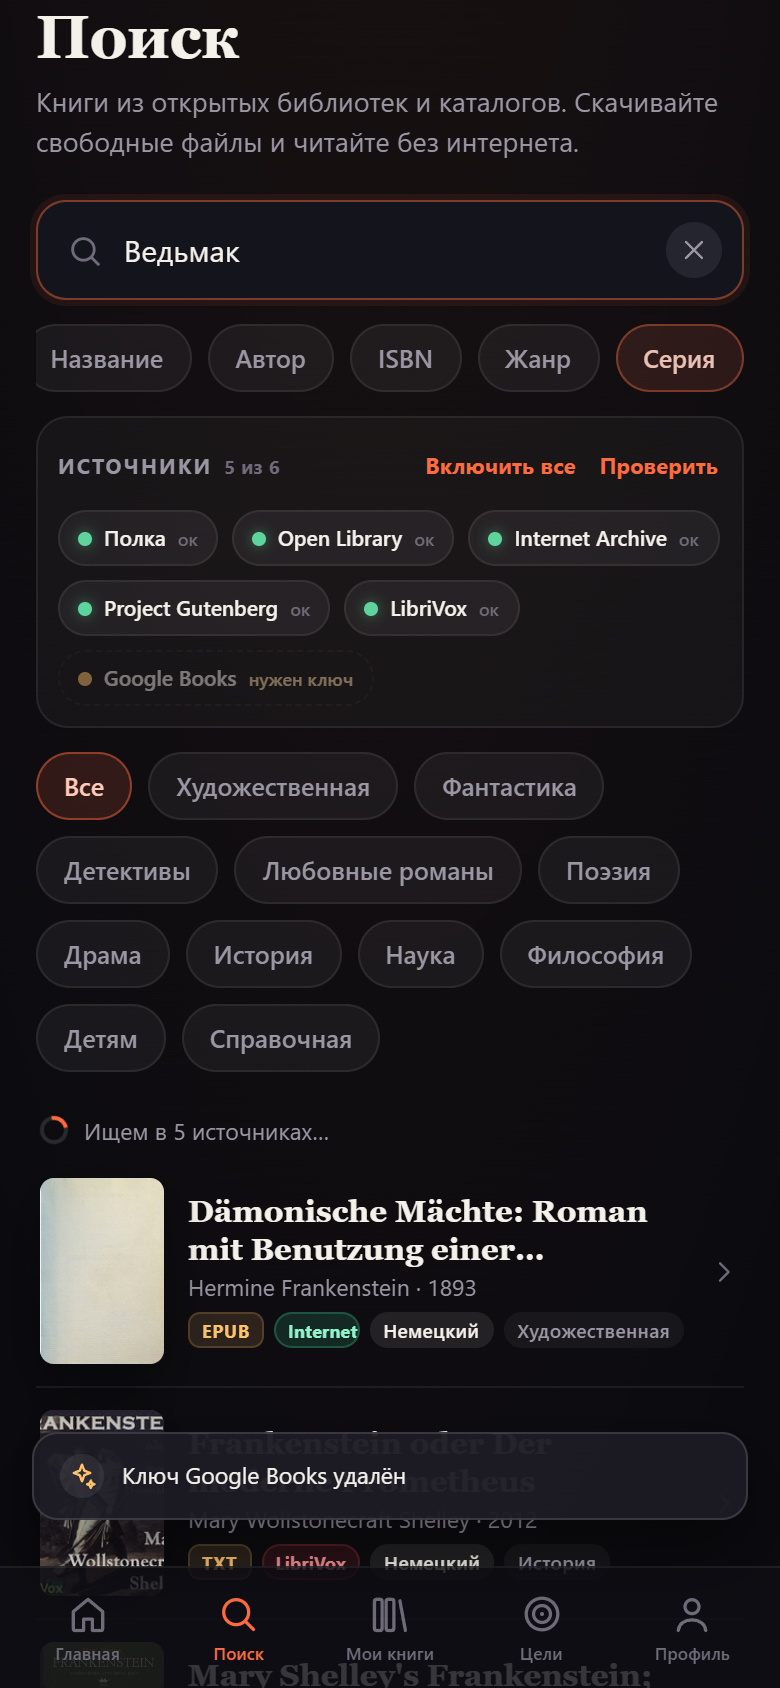
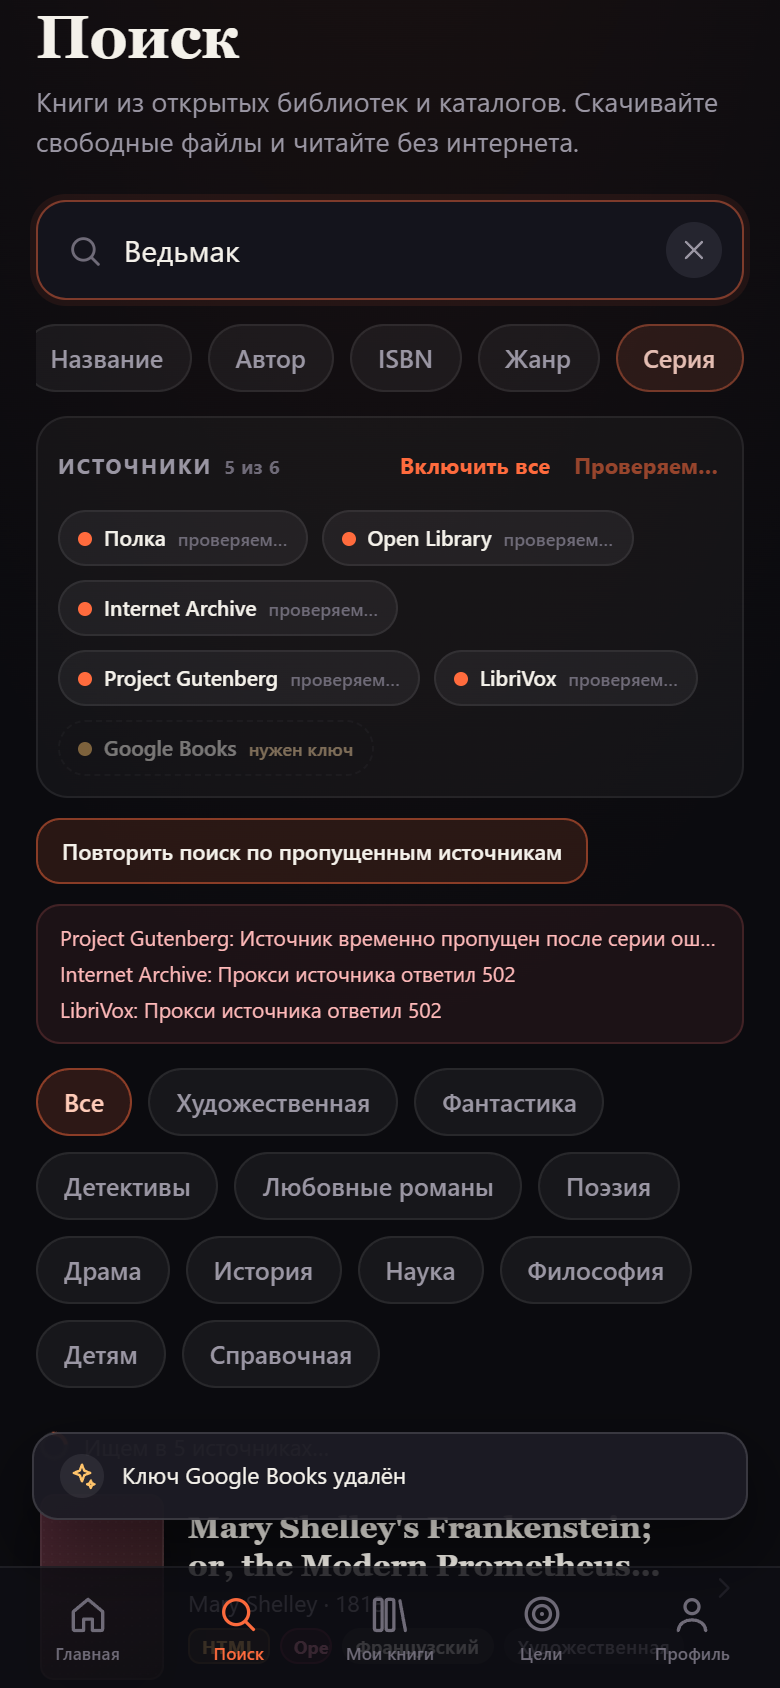
Фикс ложного предохранителя источников и фолбэк через прокси (1.2.1)
- Отмена запроса (смена поисковой строки) больше не считается ошибкой источника
- Предохранитель: порог 2 ошибки, кулдаун 45с, авто-повтор через 15с и кнопка «Повторить»
- JSON-запросы к archive.org/openlibrary при CORS-сбое идут через серверный прокси
- Понятные сообщения: «Источник не ответил вовремя — остальные источники уже показали книги»
- Таймаут Internet Archive 12с без лишних повторов
- Тесты: check-catalog 52 (включая 5 на предохранитель), e2e/search-abort (быстрая смена запросов)
- APK 1.2.1 (versionCode 4)

diff --git a/src/catalog/http.ts b/src/catalog/http.ts
@@ -4,6 +4,7 @@
  * без сторонних прокси и без обхода ограничений.
  */
 import type { SourceError } from './types';
+import { isProxyAvailable } from './proxy';
 
 export class ApiError extends Error {
   status?: number;
@@ -24,6 +25,14 @@ export interface FetchOptions {
   headers?: Record<string, string>;
   /** Ответ уже в виде ArrayBuffer (файлы). */
   binary?: boolean;
+}
+
+/** Отмена запроса пользователем/новым поиском — это не сбой источника. */
+export function isAbortError(error: unknown): boolean {
+  return (
+    (typeof DOMException !== 'undefined' && error instanceof DOMException && error.name === 'AbortError') ||
+    (error instanceof Error && error.name === 'AbortError')
+  );
 }
 
 const DEFAULT_TIMEOUT = 12_000;
@@ -85,6 +94,10 @@ export async function fetchWithRetry(url: string, options: FetchOptions = {}): P
       if (!response.ok) throw describeError(null, response.status);
       return response;
     } catch (error) {
+      // Внешняя отмена (новый запрос, уход с экрана) — не ошибка источника.
+      if (options.signal?.aborted || isAbortError(error)) {
+        throw error instanceof Error ? error : new DOMException('aborted', 'AbortError');
+      }
       lastError = describeError(error, (error as ApiError)?.status);
       if (!lastError.retryable || attempt === retries) throw lastError;
       await new Promise((resolve) => setTimeout(resolve, 350 * (attempt + 1)));
@@ -95,13 +108,63 @@ export async function fetchWithRetry(url: string, options: FetchOptions = {}): P
   throw lastError ?? new ApiError('Не удалось выполнить запрос');
 }
 
-export async function fetchJson<T>(url: string, options: FetchOptions = {}): Promise<T> {
-  const response = await fetchWithRetry(url, options);
-  const text = await response.text();
+
+/** Домены, для которых возможен фолбэк через наш серверный прокси. */
+const PROXY_HOSTS = ['archive.org', 'openlibrary.org', 'covers.openlibrary.org', 'gutenberg.org', 'librivox.org'];
+
+function canUseProxy(url: string): boolean {
   try {
-    return JSON.parse(text) as T;
+    const host = new URL(url).hostname.toLowerCase();
+    return PROXY_HOSTS.some((allowed) => host === allowed || host.endsWith('.' + allowed));
   } catch {
-    throw new ApiError('Источник вернул некорректный JSON', response.status, false);
+    return false;
+  }
+}
+
+/**
+ * Internet Archive периодически отвечает без CORS-заголовков (и тогда браузер
+ * блокирует запрос), хотя сам API доступен. Пробуем ещё раз через наш
+ * серверный прокси: на ПК его даёт server/serve.mjs, в APK — LocalServer.
+ */
+async function fetchJsonViaProxy<T>(url: string, options: FetchOptions): Promise<T> {
+  const proxied = `/api/fetch?url=${encodeURIComponent(url)}`;
+  const controller = new AbortController();
+  const timer = setTimeout(
+    () => controller.abort(new DOMException('timeout', 'TimeoutError')),
+    options.timeoutMs ?? DEFAULT_TIMEOUT,
+  );
+  const onAbort = () => controller.abort();
+  options.signal?.addEventListener('abort', onAbort, { once: true });
+  try {
+    const response = await fetch(proxied, { signal: controller.signal, headers: { Accept: 'application/json' } });
+    if (!response.ok) throw new ApiError(`Прокси источника ответил ${response.status}`, response.status, true);
+    return (await response.json()) as T;
+  } finally {
+    clearTimeout(timer);
+    options.signal?.removeEventListener('abort', onAbort);
+  }
+}
+export async function fetchJson<T>(url: string, options: FetchOptions = {}): Promise<T> {
+  const parse = async (response: Response): Promise<T> => {
+    const text = await response.text();
+    try {
+      return JSON.parse(text) as T;
+    } catch {
+      throw new ApiError('Источник вернул некорректный JSON', response.status, false);
+    }
+  };
+
+  try {
+    return await parse(await fetchWithRetry(url, options));
+  } catch (error) {
+    if (isAbortError(error)) throw error;
+    // Сетевой сбой или CORS — пробуем через серверный прокси, если он доступен.
+    const status = error instanceof ApiError ? error.status : undefined;
+    const networkFailure = !status || status >= 500;
+    if (networkFailure && canUseProxy(url) && (await isProxyAvailable())) {
+      return fetchJsonViaProxy<T>(url, options);
+    }
+    throw error;
   }
 }
 

diff --git a/src/catalog/aggregate.ts b/src/catalog/aggregate.ts
@@ -2,7 +2,7 @@
  * Объединение результатов из нескольких источников:
  * параллельный поиск, нормализация, удаление дублей, ранжирование.
  */
-import { toSourceError } from './http';
+import { isAbortError, toSourceError } from './http';
 import { isCircuitOpen, withSourceGuard } from './limits';
 import { withBestCover } from './covers';
 import { isLikelyDuplicate, normalizeIsbn, normalizeTitle } from './normalize';
@@ -211,10 +211,13 @@ export async function searchAll(query: SearchQuery, options: AggregateOptions = 
       });
       if (guarded === null) {
         // Предохранитель открыт: источник не опрашиваем, остальные работают.
+        const starting = perSource[source.id] === undefined && Object.keys(perSource).length === 0;
         errors.push({
           sourceId: source.id,
           sourceName: source.name,
-          message: 'Источник временно пропущен после серии ошибок — повторим позже',
+          message: starting
+            ? 'Источник пока не отвечает — поиск продолжится по остальным'
+            : 'Источник временно отключён после серии ошибок — нажмите «Повторить»',
           retryable: true,
         });
         perSource[source.id] = 0;
@@ -223,7 +226,15 @@ export async function searchAll(query: SearchQuery, options: AggregateOptions = 
       perSource[source.id] = guarded.length;
       return guarded;
     } catch (error) {
-      errors.push(toSourceError(source.id, source.name, error));
+      // Отмена — это не ошибка: не показываем её пользователю.
+      if (!isAbortError(error)) {
+        const failure = toSourceError(source.id, source.name, error);
+        if (/не ответил|timeout|Timeout/i.test(failure.message)) {
+          failure.message = 'Источник не ответил вовремя — остальные источники уже показали книги';
+          failure.retryable = true;
+        }
+        errors.push(failure);
+      }
       perSource[source.id] = 0;
       return [];
     }
@@ -294,7 +305,7 @@ export async function subjectBooks(
         perSource[source.id] = books.length;
         return books;
       } catch (error) {
-        errors.push(toSourceError(source.id, source.name, error));
+        if (!isAbortError(error)) errors.push(toSourceError(source.id, source.name, error));
         perSource[source.id] = 0;
         return [];
       }
@@ -358,7 +369,7 @@ async function collectFromSources(
         perSource[source.id] = books.length;
         return books;
       } catch (error) {
-        errors.push(toSourceError(source.id, source.name, error));
+        if (!isAbortError(error)) errors.push(toSourceError(source.id, source.name, error));
         perSource[source.id] = 0;
         return [];
       }

diff --git a/src/screens/Search.tsx b/src/screens/Search.tsx
@@ -1,4 +1,4 @@
-import { useEffect, useMemo, useState } from 'react';
+import { useEffect, useMemo, useRef, useState } from 'react';
 import type { BookSource, SearchQuery, SourceError, SourceHealth } from '../catalog/types';
 import {
   useCatalogSearch,
@@ -11,6 +11,7 @@ import {
 import { listSources } from '../catalog/registry';
 import { CATEGORIES, filterByCategory, type CategoryId } from '../catalog/classify';
 import { recordSearch } from '../prefs/repository';
+import { resetSourceGuard } from '../catalog/limits';
 import { formatNumber, plural, shortText } from '../lib/format';
 import { getSearchQuery } from '../lib/router';
 import { useAppOptional } from '../lib/store';
@@ -169,6 +170,24 @@ export function SearchScreen() {
   const resetSources = (): void => setOverrides({});
 
   const errors = search.result?.errors ?? [];
+  const skippedSources = errors.filter((error) => /временно пропущен/i.test(error.message));
+  const retrySkipped = () => {
+    resetSourceGuard();
+    search.refresh();
+  };
+  // Если источники были пропущены после серии ошибок — один раз пробуем снова.
+  const retriedFor = useRef<string | null>(null);
+  useEffect(() => {
+    if (skippedSources.length === 0 || search.loading) return;
+    const key = `${searchText}:${field}`;
+    if (retriedFor.current === key) return;
+    retriedFor.current = key;
+    const timer = setTimeout(() => {
+      resetSourceGuard();
+      search.refresh();
+    }, 15_000);
+    return () => clearTimeout(timer);
+  }, [skippedSources.length, search.loading, searchText, field]);
   const searchableSources = activeSources.filter((source) => source.capabilities.search).length;
   const visibleBooks = useMemo(
     () => (search.result ? search.result.books.filter((book) => filterByCategory(book, categoryFilter)) : []),
@@ -279,6 +298,11 @@ export function SearchScreen() {
 
       {hasQuery ? (
         <>
+          {skippedSources.length > 0 && (
+            <button type="button" className="source-errors__retry" onClick={retrySkipped}>
+              Повторить поиск по пропущенным источникам
+            </button>
+          )}
           {errors.length > 0 && (
             <ul className="source-errors" aria-label="Ошибки источников">
               {errors.slice(0, 4).map((error) => (

diff --git a/src/catalog/limits.ts b/src/catalog/limits.ts
@@ -1,3 +1,5 @@
+import { isAbortError } from './http';
+
 /**
  * Защита от лимитов и падений отдельных источников.
  *
@@ -32,9 +34,9 @@ const MIN_INTERVAL: Record<string, number> = {
 };
 
 /** Сколько ошибок подряд открывают предохранитель. */
-const FAILURE_THRESHOLD = 3;
+const FAILURE_THRESHOLD = 2;
 /** Пауза для источника после серии ошибок, мс. */
-const CIRCUIT_COOLDOWN = 60_000;
+const CIRCUIT_COOLDOWN = 45_000;
 
 function stateOf(sourceId: string): SourceState {
   let entry = state.get(sourceId);
@@ -105,6 +107,9 @@ export async function withSourceGuard<T>(
     entry.failures = 0;
     return result;
   } catch (error) {
+    // Отмену запроса (смена поисковой строки, уход с экрана) не считаем
+    // ошибкой источника — иначе предохранитель ложно открывается.
+    if (isAbortError(error)) throw error;
     entry.failures += 1;
     entry.totalFailures += 1;
     entry.lastFailureAt = Date.now();

diff --git a/src/catalog/hooks.ts b/src/catalog/hooks.ts
@@ -12,6 +12,7 @@ import { downloads } from '../downloads/manager';
 import type { DownloadTask, NetworkBook } from '../downloads/types';
 import { newestBooks, popularBooks, searchAll, subjectBooks } from './aggregate';
 import { booksCacheKey, cacheGet, cacheSet, recallBook, rememberBooks, searchCacheKey, TTL } from './cache';
+import { resetSourceGuard } from './limits';
 import { checkSources, getSource } from './registry';
 import type { CatalogBook, SearchQuery, SearchResult, SourceHealth } from './types';
 
@@ -136,6 +137,9 @@ function useCachedSearchResult(
 
   const refresh = useCallback(() => {
     bypassCache.current = true;
+    // Явное обновление — второй шанс для источников, которые были
+    // временно пропущены после серии ошибок.
+    resetSourceGuard();
     setNonce((value) => value + 1);
   }, []);
 

diff --git a/src/catalog/sources/internetArchive.ts b/src/catalog/sources/internetArchive.ts
@@ -163,7 +163,7 @@ export async function iaAdvancedSearch(
   if (sort) url.searchParams.append('sort[]', sort);
   const data = await fetchJson<IaSearchResponse>(url.toString(), {
     signal: ctx.signal,
-    timeoutMs: 15_000,
+    timeoutMs: 12_000, retries: 1,
   });
   return data.response?.docs ?? [];
 }
@@ -174,7 +174,7 @@ export async function iaFetchItem(identifier: string, ctx: SourceContext): Promi
   try {
     return await fetchJson<IaItemResponse>(`${METADATA_URL}${encodeURIComponent(identifier)}`, {
       signal: ctx.signal,
-      timeoutMs: 15_000,
+      timeoutMs: 12_000,
       retries: 0,
     });
   } catch {

diff --git a/src/styles-catalog.css b/src/styles-catalog.css
@@ -1442,3 +1442,18 @@
 .category-filter {
   margin: 0 0 4px;
 }
+
+
+/* --- повтор для пропущенных источников --- */
+.source-errors__retry {
+  align-self: flex-start;
+  margin: 2px 0 8px;
+  padding: 8px 12px;
+  border-radius: 12px;
+  border: 1px solid color-mix(in srgb, var(--accent, #ff6b3d) 45%, transparent);
+  background: color-mix(in srgb, var(--accent, #ff6b3d) 12%, transparent);
+  color: var(--text);
+  font-size: 11px;
+  font-weight: 600;
+  cursor: pointer;
+}

diff --git a/README.md b/README.md
@@ -322,7 +322,7 @@ scripts/                    check-sources.mjs, check-formats.mjs, sync-library.p
 
 ## Android APK
 
-Готовый APK лежит в релизе: **[Polka-1.2.0.apk](https://github.com/Tonda88/polka-books/releases/download/v1.2.0/Polka-1.2.0.apk)** (1,7 МБ, Android 7.0+).
+Готовый APK лежит в релизе: **[Polka-1.2.1.apk](https://github.com/Tonda88/polka-books/releases/download/v1.2.1/Polka-1.2.1.apk)** (1,7 МБ, Android 7.0+).
 
 Как устроен: приложение целиком (HTML/JS/CSS + 14 книг) лежит в `assets/www` внутри APK, а `LocalServer.java` отдаёт его по `http://127.0.0.1:<порт>` — поэтому в WebView работают IndexedDB, `fetch`, CORS и медиа, как в обычном браузере. Там же реализован прокси `/api/fetch` с белым списком доменов для EPUB/PDF из Internet Archive.
 
@@ -330,7 +330,7 @@ scripts/                    check-sources.mjs, check-formats.mjs, sync-library.p
 
 ```powershell
 powershell -ExecutionPolicy Bypass -File android-app\build-apk.ps1
-# результат: android-app\release\Polka-1.2.0.apk
+# результат: android-app\release\Polka-1.2.1.apk
 ```
 
 Установка: скачайте APK на телефон и откройте (разрешите установку из неизвестных источников). Подпись — самоподписанный ключ `CN=Polka Books`, поэтому Play Protect может показать предупреждение. APK не публиковался в Google Play.
